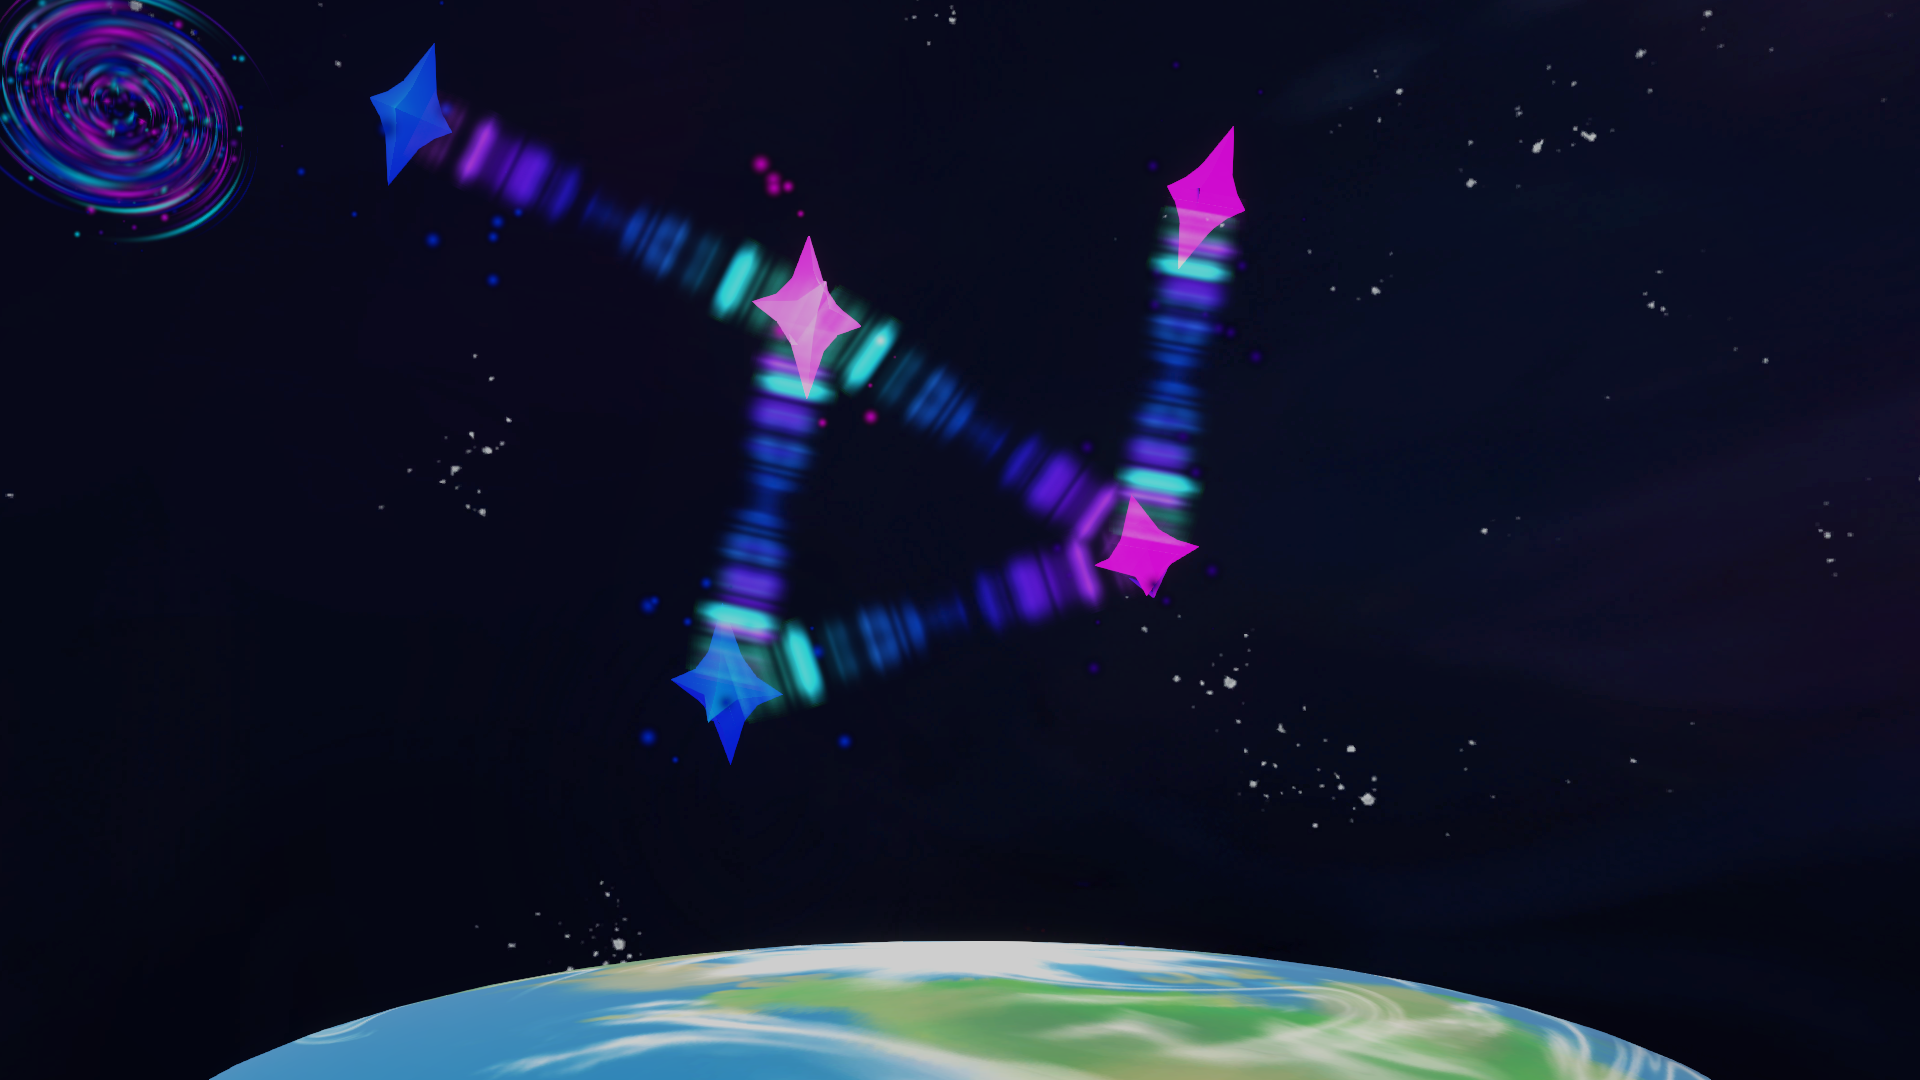
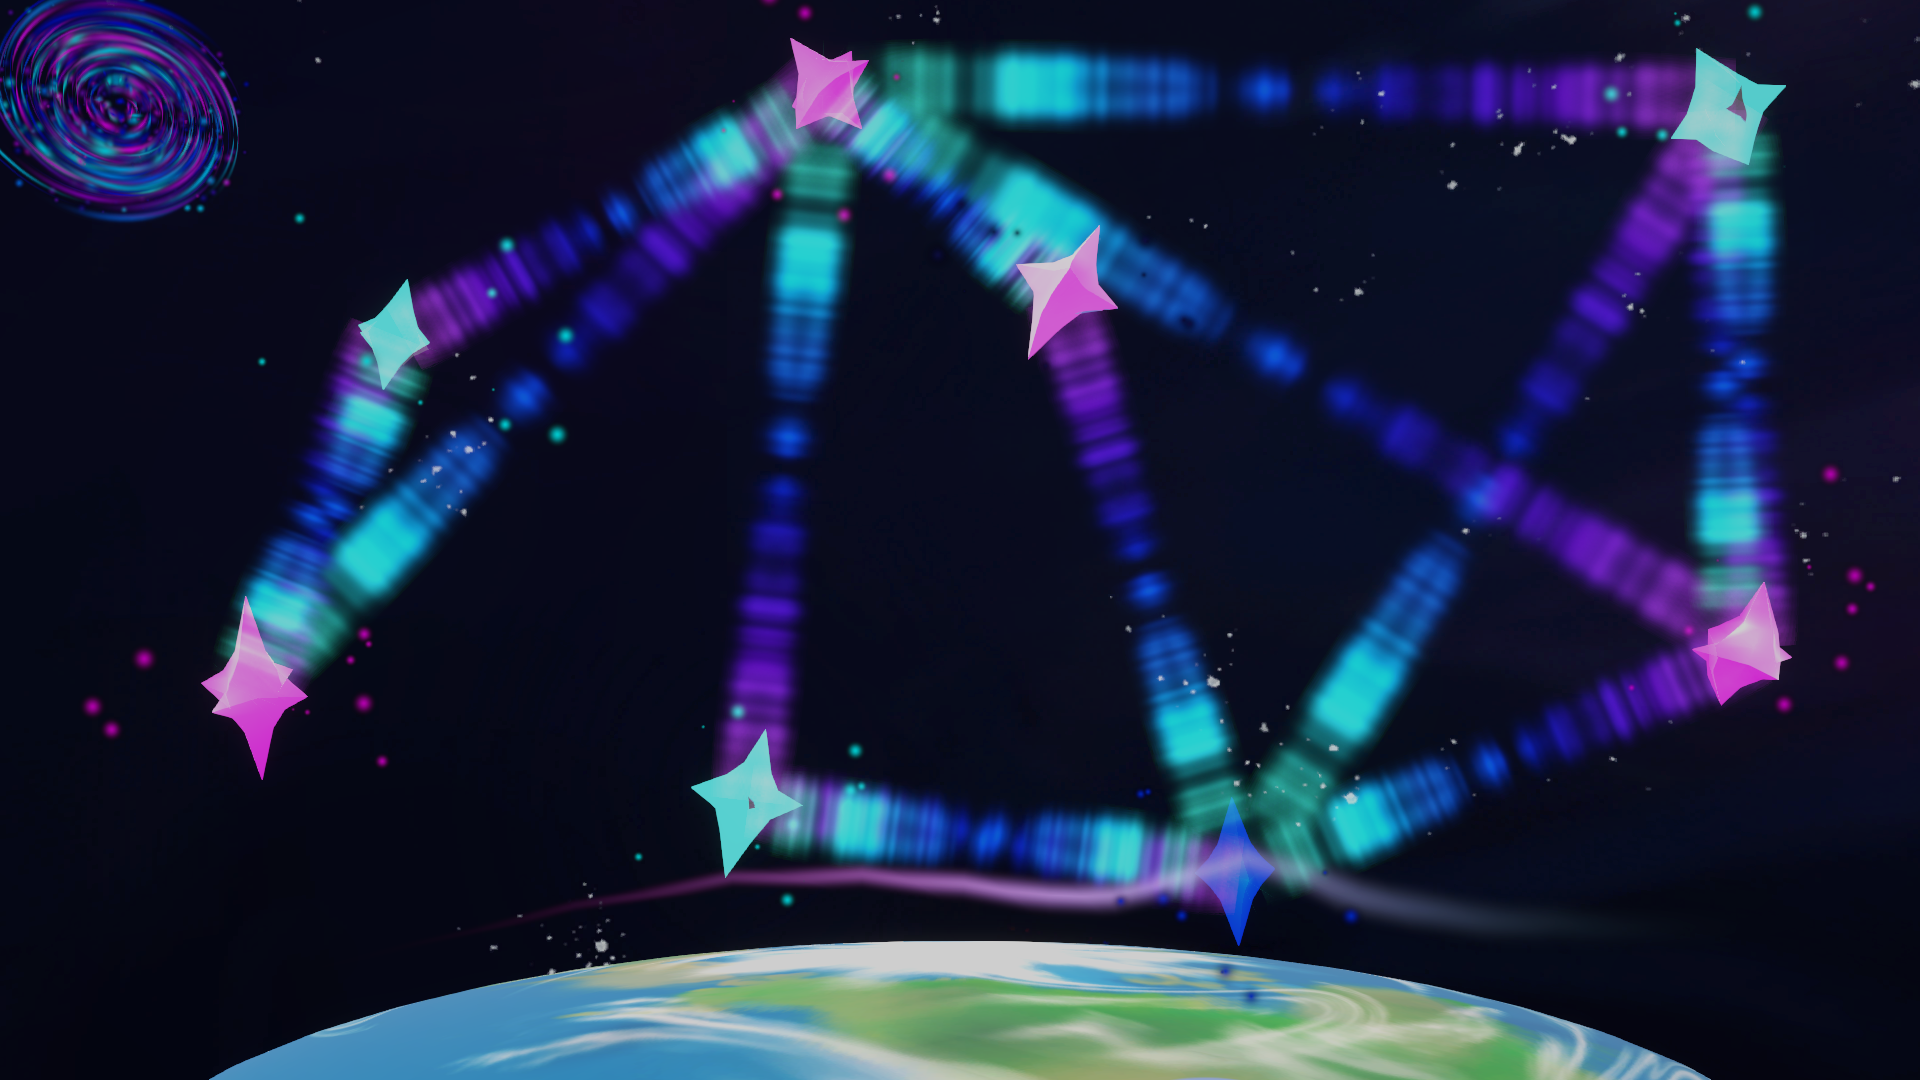
Galactic Gallery integration complete

diff --git a/Assets/Scripts/SaveManager.cs b/Assets/Scripts/SaveManager.cs
@@ -1,7 +1,6 @@
 using System.Collections;
 using UnityEngine;
 using System.IO;
-using UnityEditor.Overlays;
 using System;
 
 public class SaveManager : MonoBehaviour
